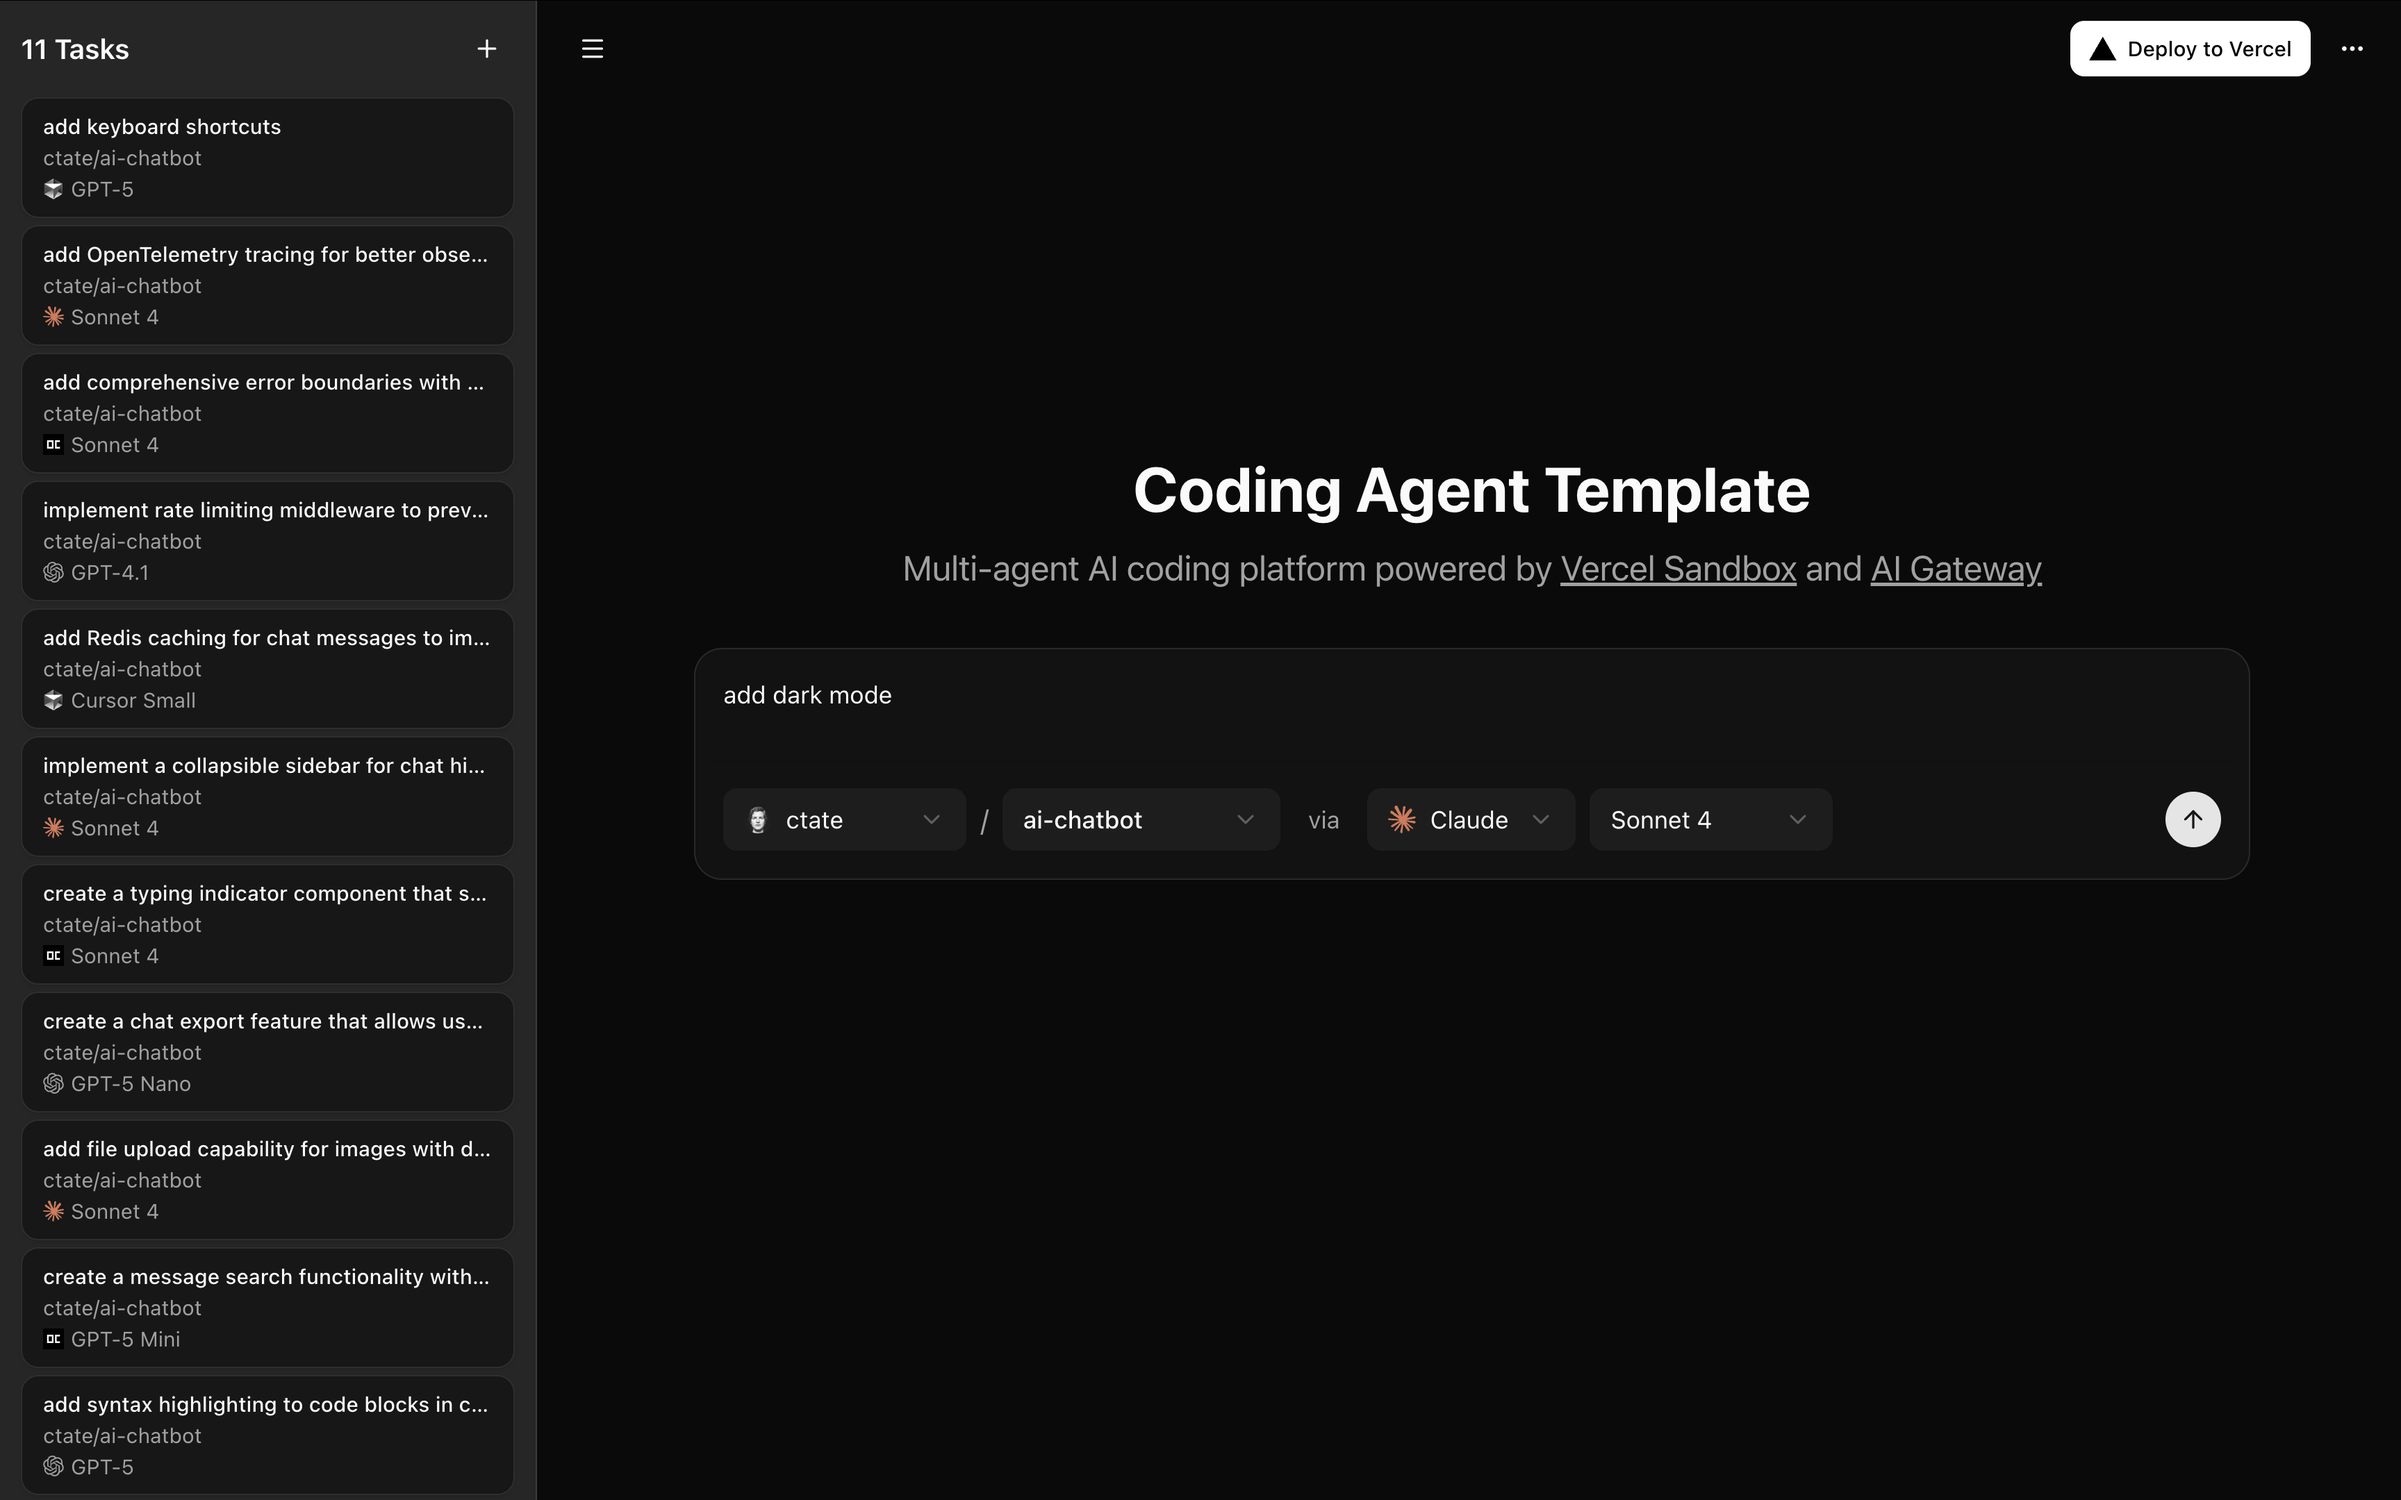
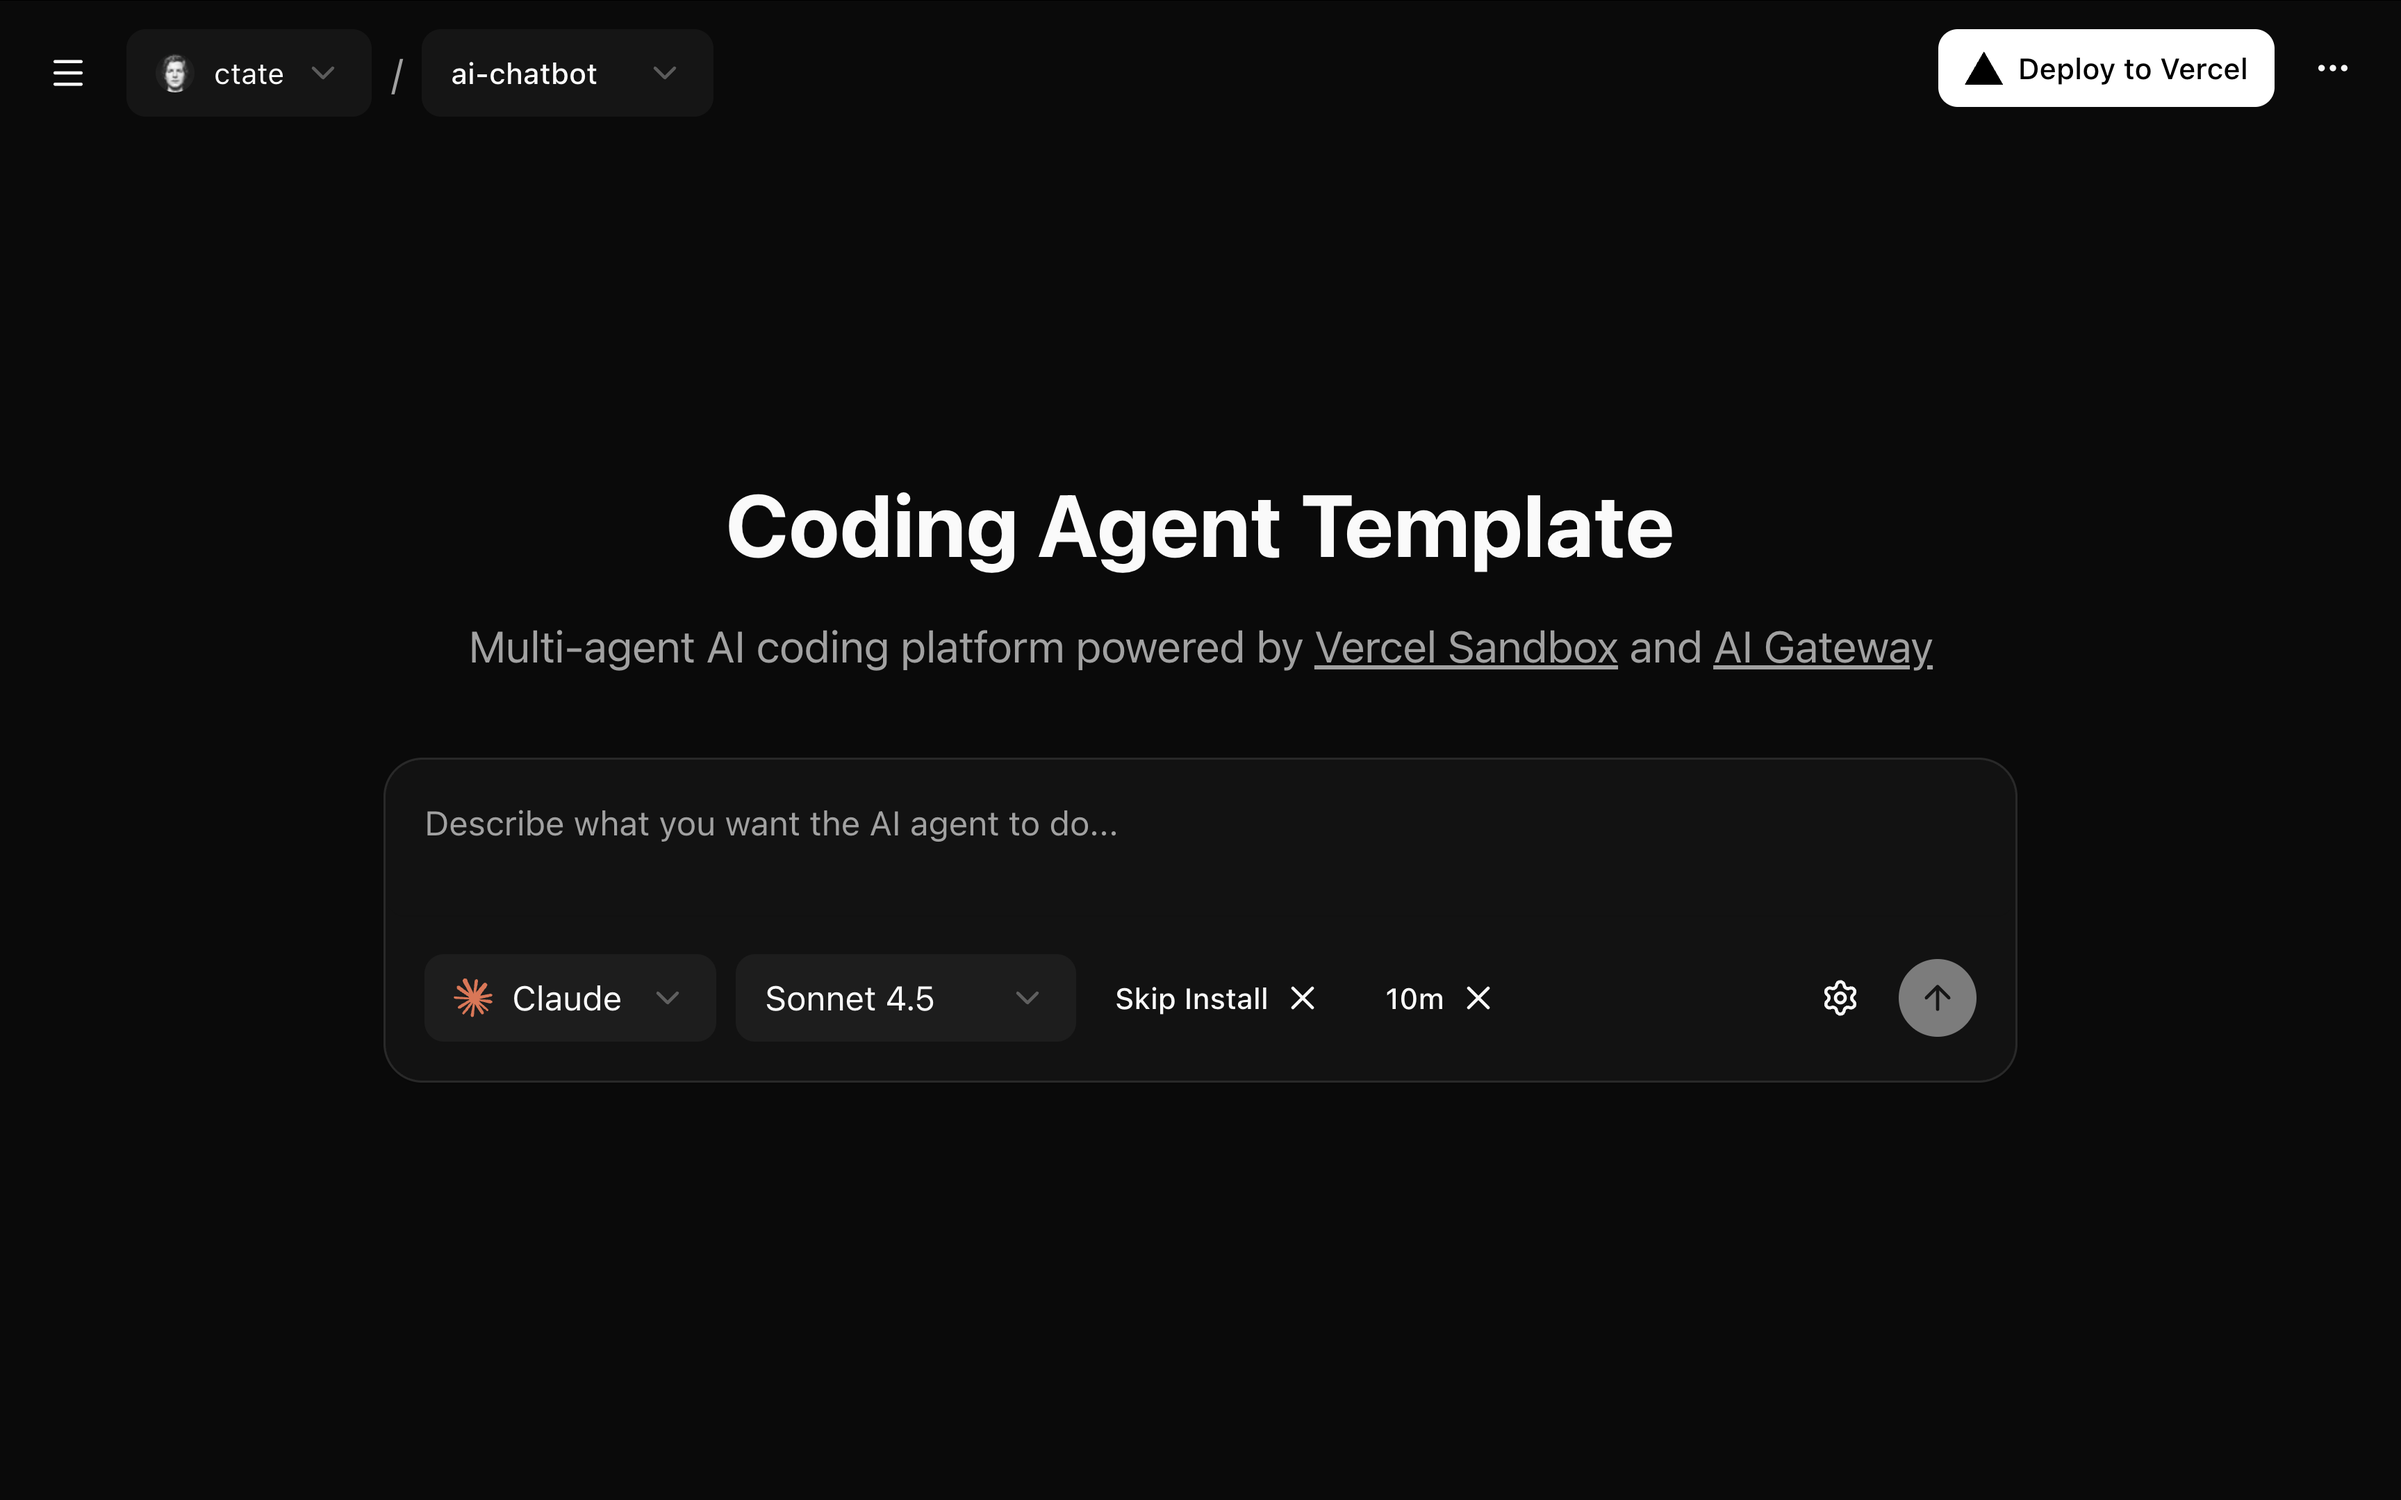
add sonnet 4.5

diff --git a/components/task-actions.tsx b/components/task-actions.tsx
@@ -36,6 +36,7 @@ const CODING_AGENTS = [
 // Model options for each agent
 const AGENT_MODELS = {
   claude: [
+    { value: 'claude-sonnet-4-5-20250929', label: 'Sonnet 4.5' },
     { value: 'claude-sonnet-4-20250514', label: 'Sonnet 4' },
     { value: 'claude-opus-4-1-20250805', label: 'Opus 4.1' },
   ],
@@ -51,6 +52,7 @@ const AGENT_MODELS = {
     { value: 'gpt-5-mini', label: 'GPT-5 Mini' },
     { value: 'gpt-5-nano', label: 'GPT-5 Nano' },
     { value: 'gpt-4.1', label: 'GPT-4.1' },
+    { value: 'claude-sonnet-4-5-20250929', label: 'Sonnet 4.5' },
     { value: 'claude-sonnet-4-20250514', label: 'Sonnet 4' },
     { value: 'claude-opus-4-1-20250805', label: 'Opus 4.1' },
   ],
@@ -59,6 +61,7 @@ const AGENT_MODELS = {
     { value: 'gpt-5-mini', label: 'GPT-5 Mini' },
     { value: 'gpt-5-nano', label: 'GPT-5 Nano' },
     { value: 'gpt-4.1', label: 'GPT-4.1' },
+    { value: 'claude-sonnet-4-5-20250929', label: 'Sonnet 4.5' },
     { value: 'claude-sonnet-4-20250514', label: 'Sonnet 4' },
     { value: 'claude-opus-4-1-20250805', label: 'Opus 4.1' },
   ],
@@ -66,7 +69,7 @@ const AGENT_MODELS = {
 
 // Default models for each agent
 const DEFAULT_MODELS = {
-  claude: 'claude-sonnet-4-20250514',
+  claude: 'claude-sonnet-4-5-20250929',
   codex: 'openai/gpt-5',
   cursor: 'gpt-5',
   opencode: 'gpt-5',

diff --git a/components/task-form.tsx b/components/task-form.tsx
@@ -54,6 +54,7 @@ const CODING_AGENTS = [
 // Model options for each agent
 const AGENT_MODELS = {
   claude: [
+    { value: 'claude-sonnet-4-5-20250929', label: 'Sonnet 4.5' },
     { value: 'claude-sonnet-4-20250514', label: 'Sonnet 4' },
     { value: 'claude-opus-4-1-20250805', label: 'Opus 4.1' },
   ],
@@ -70,6 +71,7 @@ const AGENT_MODELS = {
     { value: 'gpt-5-mini', label: 'GPT-5 Mini' },
     { value: 'gpt-5-nano', label: 'GPT-5 Nano' },
     { value: 'gpt-4.1', label: 'GPT-4.1' },
+    { value: 'claude-sonnet-4-5-20250929', label: 'Sonnet 4.5' },
     { value: 'claude-sonnet-4-20250514', label: 'Sonnet 4' },
     { value: 'claude-opus-4-1-20250805', label: 'Opus 4.1' },
   ],
@@ -78,6 +80,7 @@ const AGENT_MODELS = {
     { value: 'gpt-5-mini', label: 'GPT-5 Mini' },
     { value: 'gpt-5-nano', label: 'GPT-5 Nano' },
     { value: 'gpt-4.1', label: 'GPT-4.1' },
+    { value: 'claude-sonnet-4-5-20250929', label: 'Sonnet 4.5' },
     { value: 'claude-sonnet-4-20250514', label: 'Sonnet 4' },
     { value: 'claude-opus-4-1-20250805', label: 'Opus 4.1' },
   ],
@@ -85,7 +88,7 @@ const AGENT_MODELS = {
 
 // Default models for each agent
 const DEFAULT_MODELS = {
-  claude: 'claude-sonnet-4-20250514',
+  claude: 'claude-sonnet-4-5-20250929',
   codex: 'openai/gpt-5',
   cursor: 'auto',
   opencode: 'gpt-5',

diff --git a/components/task-sidebar.tsx b/components/task-sidebar.tsx
@@ -12,6 +12,7 @@ import { Claude, Codex, Cursor, OpenCode } from '@/components/logos'
 // Model mappings for human-friendly names
 const AGENT_MODELS = {
   claude: [
+    { value: 'claude-sonnet-4-5-20250929', label: 'Sonnet 4.5' },
     { value: 'claude-sonnet-4-20250514', label: 'Sonnet 4' },
     { value: 'claude-opus-4-1-20250805', label: 'Opus 4.1' },
   ],
@@ -27,6 +28,7 @@ const AGENT_MODELS = {
     { value: 'gpt-5-mini', label: 'GPT-5 Mini' },
     { value: 'gpt-5-nano', label: 'GPT-5 Nano' },
     { value: 'gpt-4.1', label: 'GPT-4.1' },
+    { value: 'claude-sonnet-4-5-20250929', label: 'Sonnet 4.5' },
     { value: 'claude-sonnet-4-20250514', label: 'Sonnet 4' },
     { value: 'claude-opus-4-1-20250805', label: 'Opus 4.1' },
   ],
@@ -35,6 +37,7 @@ const AGENT_MODELS = {
     { value: 'gpt-5-mini', label: 'GPT-5 Mini' },
     { value: 'gpt-5-nano', label: 'GPT-5 Nano' },
     { value: 'gpt-4.1', label: 'GPT-4.1' },
+    { value: 'claude-sonnet-4-5-20250929', label: 'Sonnet 4.5' },
     { value: 'claude-sonnet-4-20250514', label: 'Sonnet 4' },
     { value: 'claude-opus-4-1-20250805', label: 'Opus 4.1' },
   ],

diff --git a/lib/sandbox/agents/claude.ts b/lib/sandbox/agents/claude.ts
@@ -74,7 +74,7 @@ export async function installClaudeCLI(
 
       // Create config file directly using absolute path
       // Use selectedModel if provided, otherwise fall back to default
-      const modelToUse = selectedModel || 'claude-3-5-sonnet-20241022'
+      const modelToUse = selectedModel || 'claude-sonnet-4-5-20250929'
       const configFileCmd = `mkdir -p $HOME/.config/claude && cat > $HOME/.config/claude/config.json << 'EOF'
 {
   "api_key": "${process.env.ANTHROPIC_API_KEY}",
@@ -170,7 +170,7 @@ export async function executeClaudeInSandbox(
     const envPrefix = `ANTHROPIC_API_KEY="${process.env.ANTHROPIC_API_KEY}"`
 
     // Log what we're trying to do
-    const modelToUse = selectedModel || 'claude-3-5-sonnet-20241022'
+    const modelToUse = selectedModel || 'claude-sonnet-4-5-20250929'
     if (logger) {
       await logger.info(
         `Attempting to execute Claude CLI with model ${modelToUse} and instruction: ${instruction.substring(0, 100)}...`,
